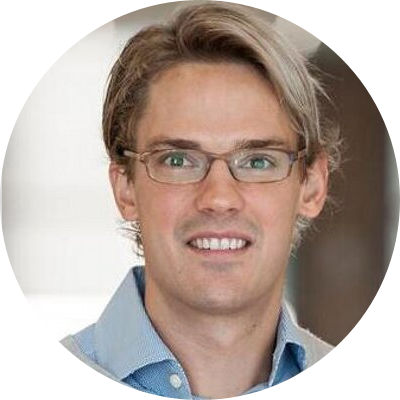
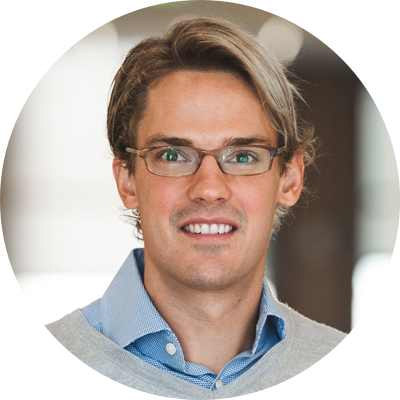
updated Tomasz image

diff --git a/index.html b/index.html
@@ -33,8 +33,6 @@
 
 		<a class="Banners" href="https://www.linkedin.com/shareArticle?mini=true&url=https://5years.dormroomfund.com/&title=Dorm%20Room%20Fund%20Five%20Year%20Report&summary=5%20Year%20Report&source=LinkedIn" target="_blank"><img src="Media/Banner/LinkedInBanner.png" width="37.5" height="93.75" alt = "Linkedin Banner"/></a>
 		<!-- https://developer.linkedin.com/docs/share-on-linkedin -->
-
-  		</div>
 	</header>
 
 	<!-- ____________________________Title Screen____________________________ -->
